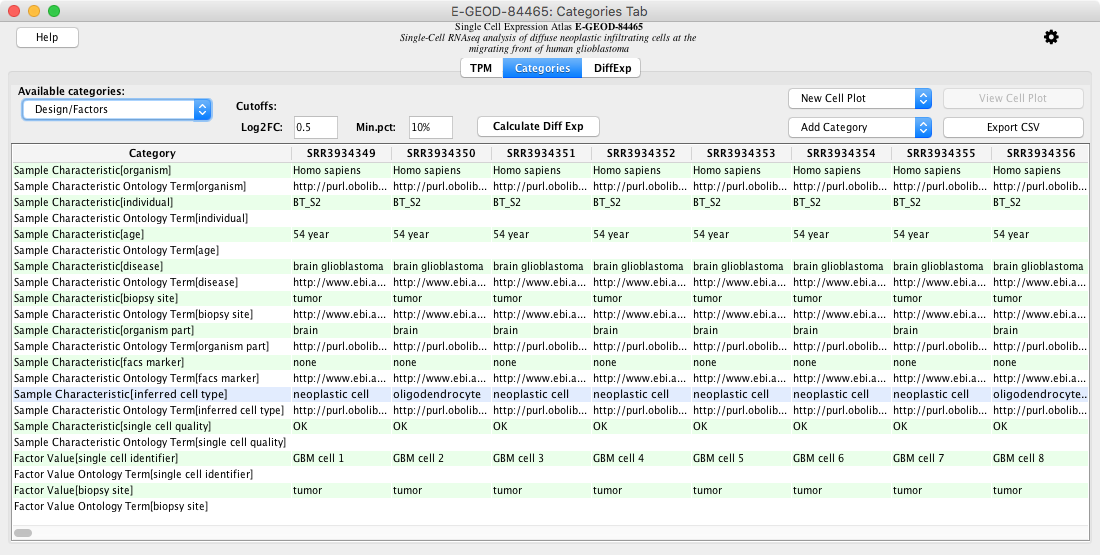
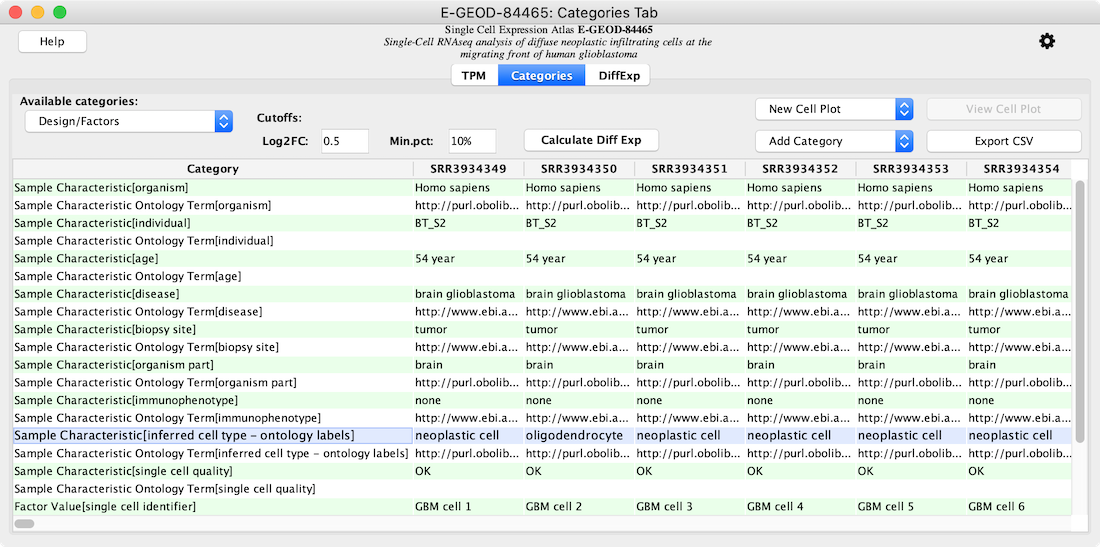
update for scNetViz 1.1.0, redo some images

diff --git a/presentations/modules/scnetviz/module.html b/presentations/modules/scnetviz/module.html
@@ -1,7 +1,7 @@
 <section>
 <h1>scNetViz</h1>
 <h3>A Cytoscape App for Analyzing Single-Cell RNA Sequencing Data</h3>
-<h5 style="font-size:60%">Tutorial: November 2019</h5>
+<h5 style="font-size:60%">Tutorial: January 2021</h5>
 <!-- add citation when available -->
 <aside class="notes">
 </aside>
@@ -89,11 +89,11 @@ near the top of the Cytoscape window, or use Cytoscape menu:
 From&nbsp;Single&nbsp;Cell&nbsp;Expression&nbsp;Atlas</b>
 to show the experiment browser
 </p>
-<div style="float:left; width:70%">
+<div style="float:left; width:68%">
 <a href="modules/scnetviz/scea-browser.png">
 <img src="modules/scnetviz/scea-browser.png" title="click to enlarge..."></a>
 </div>
-<div style="float:right; width:28%;font-size:60%">
+<div style="float:right; width:30%;font-size:60%">
 <ul>
 <li>Sort a column: click header, <i>e.g.</i> <b>Cells</b></li>
 <li>Adjust column widths: drag dividers between headers</li>
@@ -178,7 +178,7 @@ title="click to enlarge..."></a>
 <li>Make the <b>Category</b> column wider so that you can see the
 different descriptions</li>
 <li>Click to choose the row for the category 
-<b>Sample Characteristic [inferred cell type]</b>,
+<b>Sample Characteristic [inferred cell type - ontology labels]</b>,
 as shown in the figure</li>
 <li>In the <b>New Cell Plot</b> menu, choose <b>UMAP</b> and then
 click <b>OK</b> to plot the cells with default settings</li>
@@ -266,12 +266,12 @@ to plot the top DE genes by log2FC magnitude</li>
 
 <section>
 <h1>Heatmap of Top DE Genes</h1>
-<div style="float:left; width:45%">
+<div style="float:left; width:50%">
 <a href="modules/scnetviz/heatmap.png">
 <img src="modules/scnetviz/heatmap.png" 
 title="click to enlarge..."></a>
 </div>
-<div style="float:right; width:51%;font-size:70%">
+<div style="float:right; width:45%;font-size:70%">
 <p></p>
 <ul>
 <li>Red indicates positive log2FC (&uarr;&nbsp;expression), 
@@ -372,38 +372,30 @@ respective columns in the <b>DiffExp</b> tab of the <b>Experiment Table</b>.
 </p>
 <p style="font-size:75%">
 Most of the <b>oligodendrocyte</b> top genes by log2FC magnitude
-have negative values (blue nodes).
-When both signs are included in the network, 
-the <b>Node Table</b> below the network gives 
-<i>scNetViz</i> <b>oligodendrocyte Rank</b> values of 2 and 35 
-for the two largest positive values:
-<!-- 5th and 42nd in the Experiment Table -->
+have negative values (blue nodes). 
+After the positive-only networks have been shown, however,
+the <i>scNetViz</i> <b>oligodendrocyte Rank</b> column in the
+<b>Node Table</b> below the <b>oligodendrocyte</b> network gives the
+genes with the largest positive values. Ranks 1 and 2 are:
 </p>
 <ul style="font-size:60%">
 <li>ENSG00000197430 &ndash;
 OPALIN, oligodendrocytic myelin paranodal and inner loop protein,
-log2FC 16.6 and FDR 1E-32</li>
+log2FC 16.6 and FDR 7E-33</li>
 <li>ENSG00000167755 &ndash;
-KLK6, kallikrein-related peptidase 6, log2FC 12.6 and FDR 1E-30</li>
+KLK6, kallikrein-related peptidase 6, log2FC 12.6 and FDR 6E-30</li>
 </ul>
 <p style="font-size:75%">
-...whereas the genes with the most significant FDR values
-(from the <b>Experiment Table</b>, as only the first one
-made it into the network) have positive log2FC values:
-<!-- PLP1 has log2FC rank 177 -->
+...whereas the genes with the most significant <b>oligodendrocyte FDR</b> values
+(from sorting that column in the <b>Experiment Table</b>)
+have smaller positive log2FC values:
 </p>
 <ul style="font-size:60%">
 <li>ENSG00000123560 &ndash;
-PLP1, myelin proteolipid protein, log2FC 8.6 and FDR 6E-51</li>
-<li>ENSG00000244274 &ndash;
-DBNDD2, dysbindin domain containing 2, log2FC 6.9 and FDR 1E-50</li>
-<li>ENSG00000091513 &ndash;
-TF, transferrin, log2FC 7.4 and FDR 3E-49</li>
+PLP1, myelin proteolipid protein, log2FC 8.6 and FDR 8E-51</li>
 <li>ENSG00000197971 &ndash;
-MBP, myelin basic protein, log2FC 6.2 and FDR 3E-49</li>
+MBP, myelin basic protein, log2FC 6.8 and FDR 3E-50</li>
 </ul>
-<!-- "best" negative log2FC -4.9 at FDR 2E-40 for 
-ENSG00000101439, CST3 cystatin 3 -->
 </section>
 
 <section>

diff --git a/presentations/modules/scnetviz/index.html b/presentations/modules/scnetviz/index.html
@@ -27,7 +27,7 @@
 		<div class="reveal">
 			<div class="footer">
 				<img src="modules/scnetviz/scnetviz.png" style="opacity:0.5"> 
-				<version>1.0.3</version>
+				<version>1.1.0</version>
 			</div>
 			<div class="slides">
 			<!-- this is just a shell to import the sections file -->
